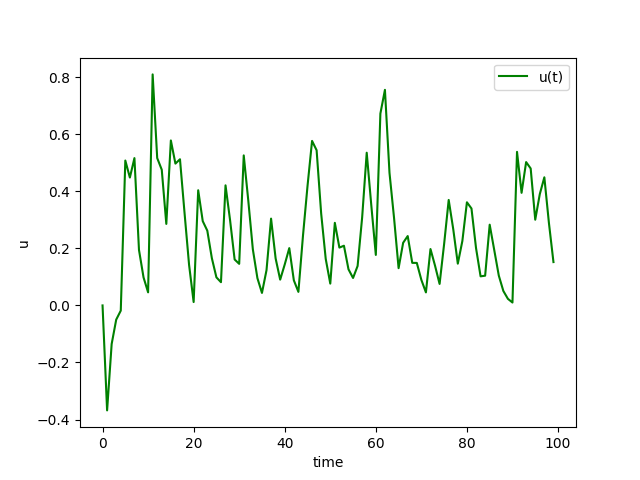
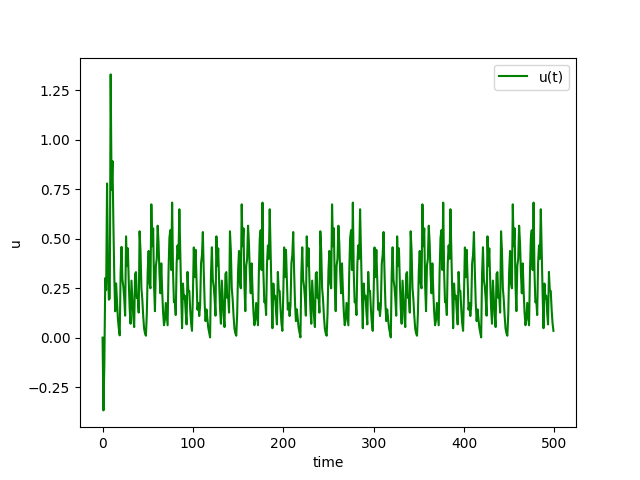
added repeated patterns

diff --git a/Homeworks/HW3/main.py b/Homeworks/HW3/main.py
@@ -64,15 +64,15 @@ class SNN:
             if self.u2[t, i] > u_spike:
                 self.prev_t_2[i] = t
 
-    def visualize_u(self):
-        tim = np.arange(T)
+    def visualize_u(self, maxT):
+        tim = np.arange(maxT)
         for i in range(hidden_sz):
-            make_plot(tim, self.u1[:T, i], 'g', 'u(t)', 'time', 'u')
+            make_plot(tim, self.u1[:maxT, i], 'g', 'u(t)', 'time', 'u')
             plt.savefig(path + "/u_hidden_" + str(i) + "(t)")
             plt.close()
 
         for i in range(output_sz):
-            make_plot(tim, self.u2[:T, i], 'g', 'u(t)', 'time', 'u')
+            make_plot(tim, self.u2[:maxT, i], 'g', 'u(t)', 'time', 'u')
             plt.savefig(path + "/u_out_" + str(i) + "(t)")
             plt.close()
 
@@ -85,7 +85,7 @@ if __name__ == "__main__":
     hidden_sz = 10
 
     T = 100
-    input_pattern = np.zeros((T, input_sz))
+    input_pattern = np.zeros((T * 10, input_sz))
     for i in range(input_sz):
         j = -1
         while j < 100:
@@ -99,7 +99,9 @@ if __name__ == "__main__":
 
     snn1 = SNN(input_sz, hidden_sz, output_sz)
 
-    for tt in range(T):
-        snn1.apply(input_pattern[tt], tt)
+    epoch_cnt = 5
+    for epoch in range(epoch_cnt):
+        for tt in range(T):
+            snn1.apply(input_pattern[tt], epoch * T + tt)
 
-    snn1.visualize_u()
+    snn1.visualize_u(T * epoch_cnt)
